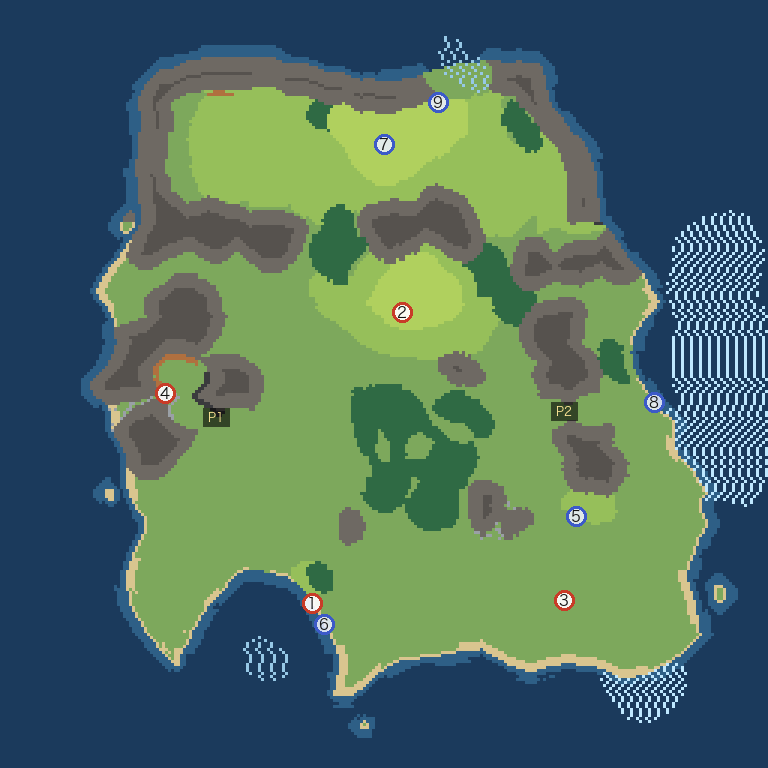
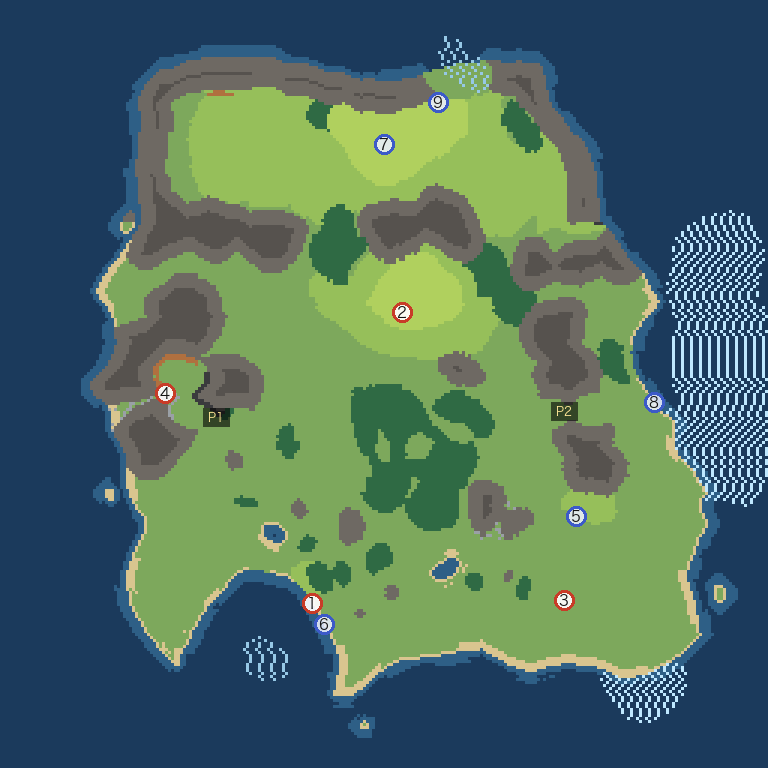
docs: B-2マップv3e＝データv1.1（草原の点在林・大岩・池。検証全緑）

diff --git a/GPT/game/shioji/design/map_b2/generate_b2_map.py b/GPT/game/shioji/design/map_b2/generate_b2_map.py
@@ -61,6 +61,8 @@ coast_noise = (value_noise(24, 404) * 1.0 + value_noise(12, 405) * 0.6 + value_n
 island &= border > (13 + (coast_noise + 1) * 9)
 for cx, cy, r in [(44, 76, 3), (236, 196, 3), (126, 244, 2), (32, 168, 2)]:  # 沖の小さな岩礁
     island |= blob(cx, cy, r, wobble=0.5)
+for cx, cy, r in [(148, 184, 3), (86, 177, 3)]:   # 内陸の小さな池(1-3・1-4の間の景物)
+    island &= ~blob(cx, cy, r, wobble=0.4)
 
 terrain = np.full((N, N), SEA, dtype=np.int16)
 terrain[island] = GRASS  # islandはこの後の北の潟の切除で更新される
@@ -98,6 +100,9 @@ mountains &= ~pocket
 # 1・2・3の間の丘(空白を埋める自然地形。低い岩場の背・通行は周囲を回れる)
 for cx, cy, r in [(158, 168, 8), (166, 176, 6), (116, 172, 7), (150, 128, 6)]:
     mountains |= blob(cx, cy, r, wobble=0.3)
+# 草原の点在する大岩(1-3・1-4の間。極小=道は自然に迂回)
+for cx, cy, r in [(134, 190, 2), (167, 193, 2), (120, 198, 2), (74, 158, 2), (94, 166, 2)]:
+    mountains |= blob(cx, cy, r, wobble=0.5)
 # 峠(山を貫く回廊が唯一の道)
 def corridor(x0, y0, x1, y1, width=4):
     steps = int(max(abs(x1-x0), abs(y1-y0))) * 2 + 1
@@ -137,7 +142,9 @@ for cx, cy, r in [(114, 88, 11), (134, 84, 10), (152, 88, 10), (166, 94, 9),  # 
                   (104, 191, 5), (82, 196, 4),                            # 母港のそばの小さな森(教程の距離感・3年で尽きる)
                   (134, 148, 10), (146, 156, 9), (128, 158, 8),           # 1と3の中間の森(不定形の複数塊)
                   (152, 142, 7), (122, 146, 6), (142, 166, 7),
-                  (208, 116, 8), (108, 42, 8), (166, 40, 7)]:              # 東の小さな林・北の少しの木
+                  (208, 116, 8), (108, 42, 8), (166, 40, 7),               # 東の小さな林・北の少しの木
+                  (114, 188, 3), (128, 181, 4), (156, 190, 3), (172, 200, 3),  # 1-3の間の点在林
+                  (78, 168, 3), (90, 150, 3), (68, 146, 2), (98, 179, 3)]:     # 1-4の間の点在林
     forest |= blob(cx, cy, r, wobble=0.2)
 forest &= island & ~mountains & ~fert2core & ~fert2north & ~pocket
 forest &= ~(blob(134, 102, 20, wobble=0.15))
@@ -326,7 +333,7 @@ for y in range(N):
         row.append(ch)
     rows.append(''.join(row))
 data = {
-    'version': 'b2-map-v1.0 (v3d)',
+    'version': 'b2-map-v1.1 (v3e)',
     'size': [N, N],
     'legend': {'~': 'sea', '-': 'shallow(視覚のみ・水扱い)', 'R': 'sea+豊かな漁場', 'm': 'sea+中漁場',
                '.': 'sand', 'g': 'grass', 'f': 'fert1(畑適地)', 'F': 'fert2(肥沃コア)',

diff --git a/GPT/game/shioji/decisions/DECISIONS_20260814_b2_map_v3e.md b/GPT/game/shioji/decisions/DECISIONS_20260814_b2_map_v3e.md
@@ -1,0 +1,6 @@
+# 決定ログ 2026-08-14 — B-2マップv3e（草原の点在物・データはv1.1へ）
+
+**状態**: 凍結
+**Nao_u原文**: 「最後に、1と3のあいだ、1と四の間の草原が何もなさ過ぎるので、自然に見えるように小規模に点在するような形でゲーム的に不都合のない形で埋めてみて」
+
+**反映**: 1-3間と1-4間に (a)点在する小さな林8つ(森は通行可=ゲーム的に無害) (b)極小の大岩5つ(通行不可だがr2=道は自然に迂回) (c)内陸の小さな池2つ(砂と浅瀬の縁取りが自動で付く)。距離の階段・峠ロックassertは全て緑を維持。**投入データは b2_map_data.json v1.1 が正**(WORK_ORDER_20260814_B2_MAP_INGAMEの参照パスは同じ)
